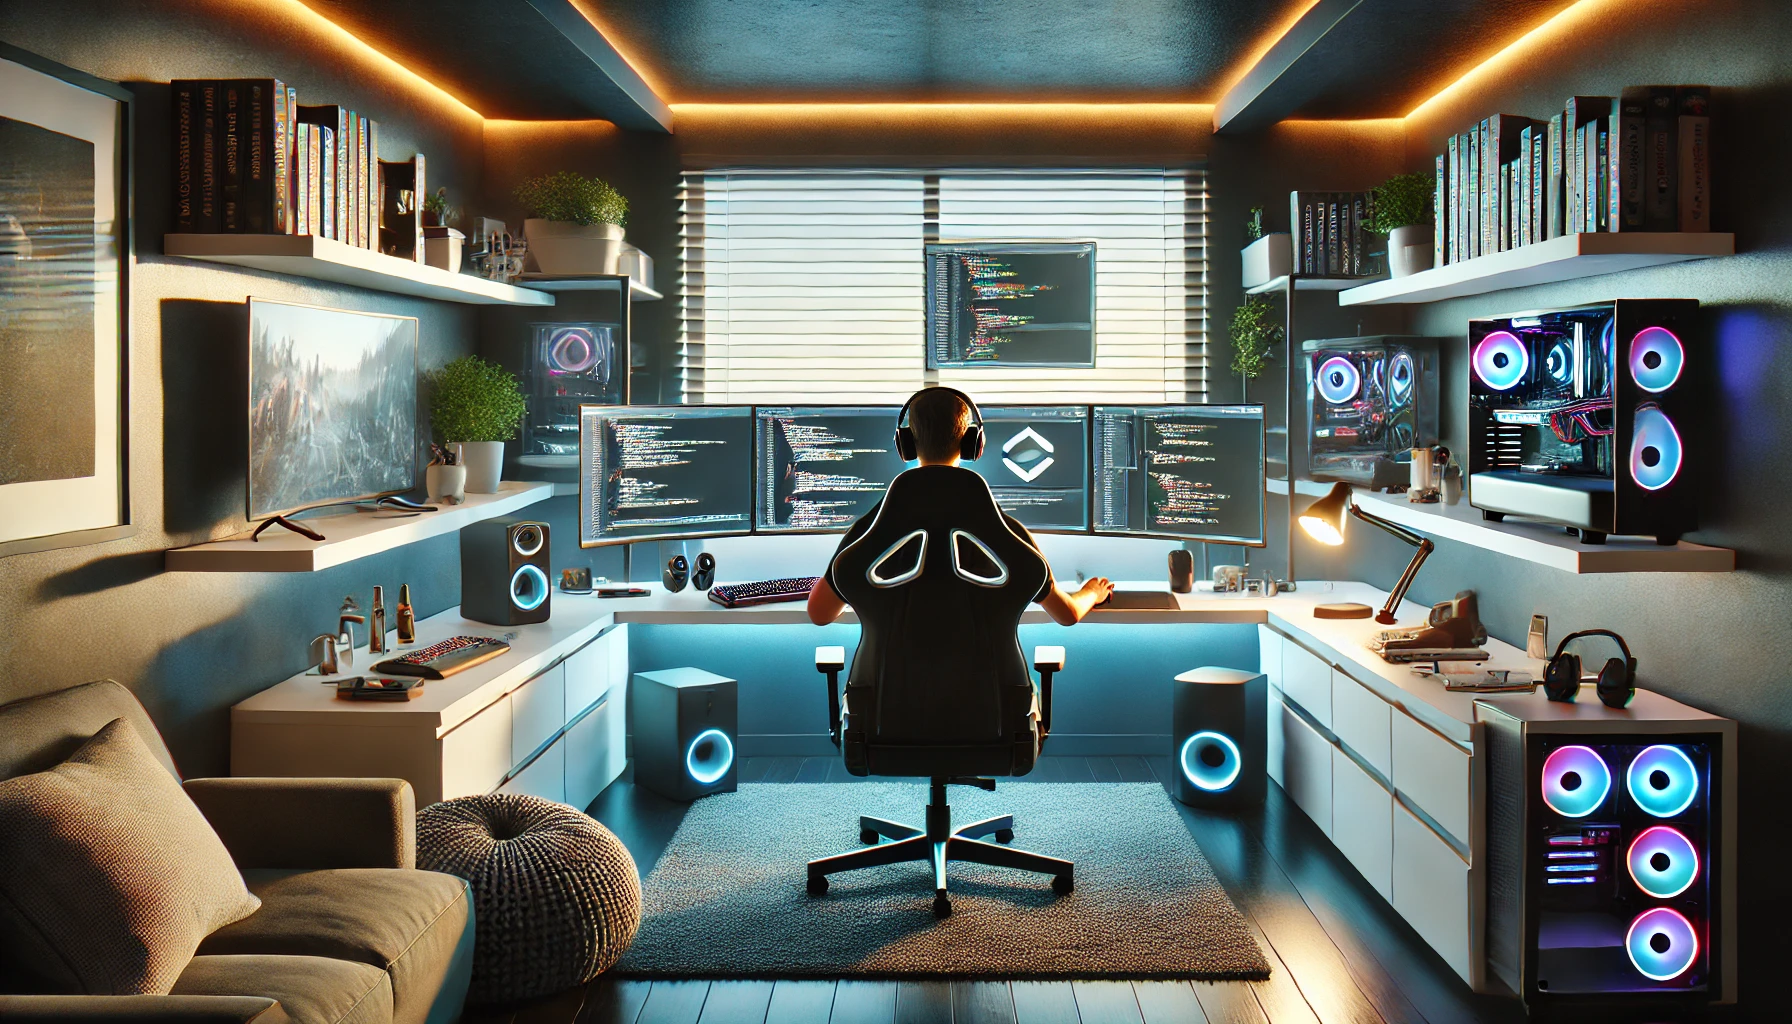
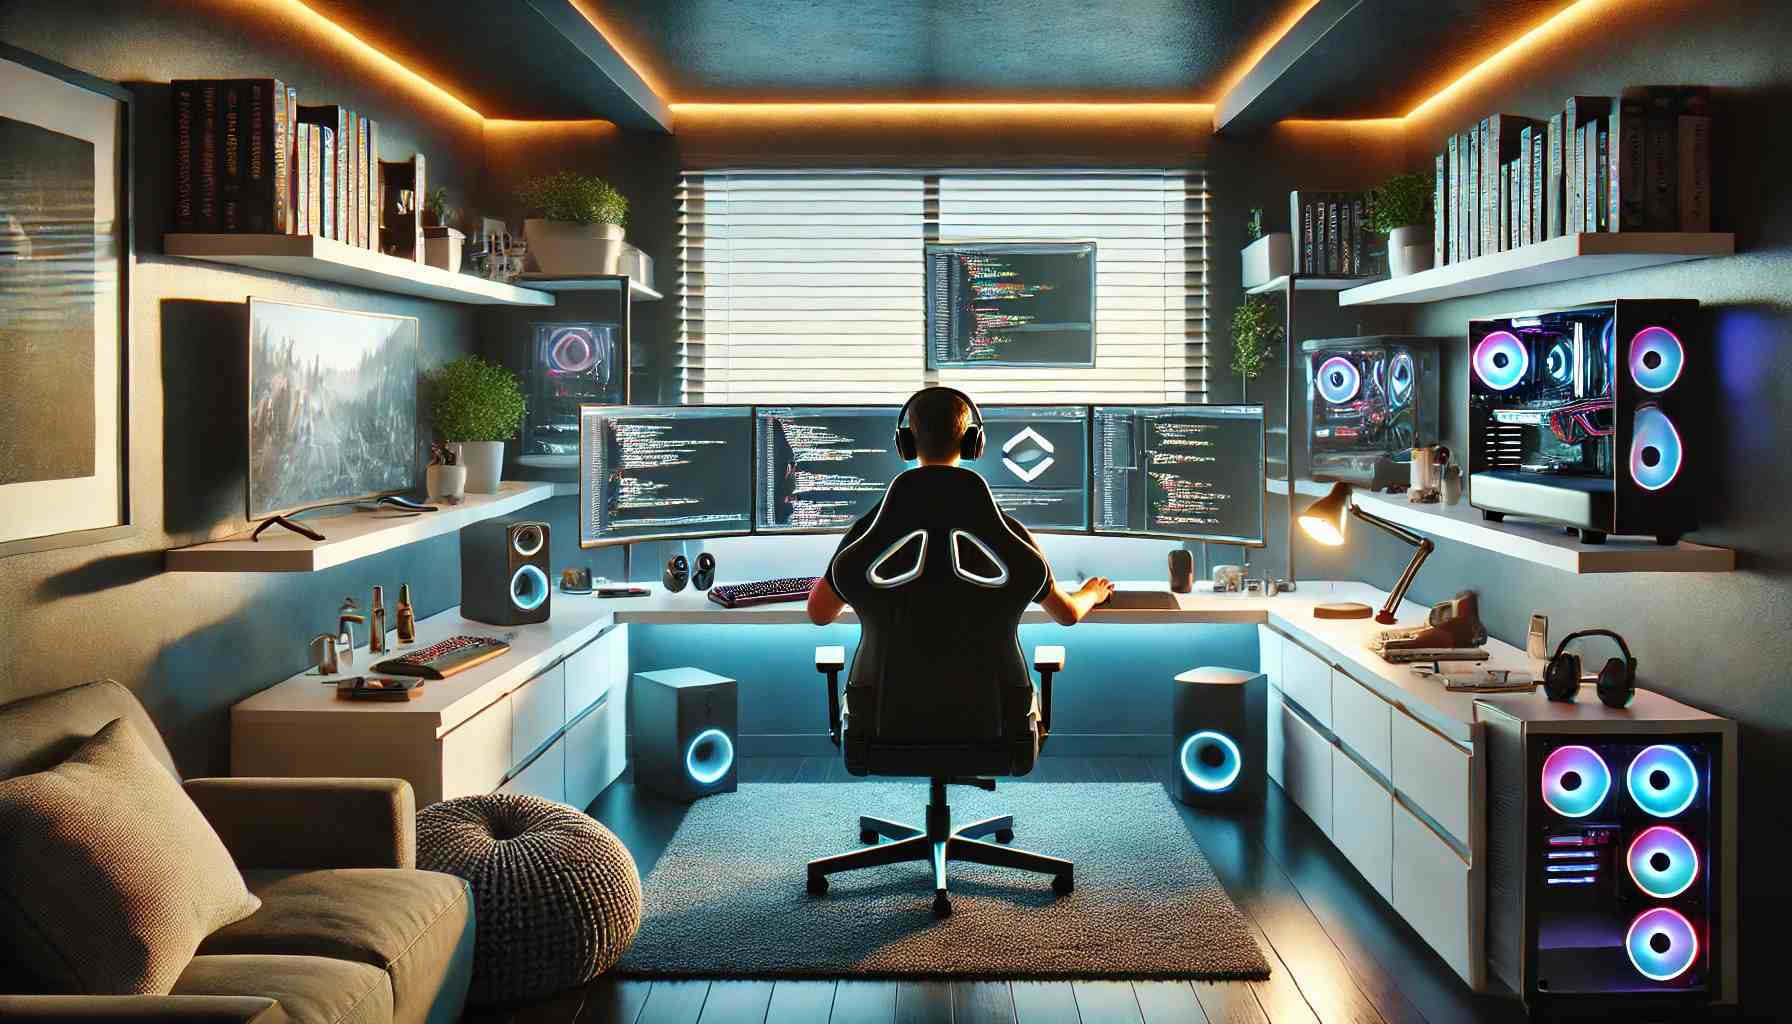
=lootie isues fixed

diff --git a/src/components/Preloader/Preloader.jsx b/src/components/Preloader/Preloader.jsx
@@ -16,9 +16,9 @@ function Preloader({ isLoading }) {
   return (
     <div
       className="preloader-container"
-      style={{ display: isLoading ? "flex" : "flex" }}
+      style={{ display: isLoading ? "flex" : "none" }}
     >
-      <Lottie options={defaultOptions} height={400} width={400} />
+      <Lottie options={defaultOptions} height={400} width={400}    style={{ pointerEvents: 'none' }}     />
     </div>
   );
 }

diff --git a/src/pages/LandingPage/LandingPage.jsx b/src/pages/LandingPage/LandingPage.jsx
@@ -90,7 +90,7 @@ function LandingPage() {
             </Col>
 
             <Col md={5} style={{ paddingBottom: 20 }}>
-              <Lottie options={animationOptions1} className="img-fluid" />
+              <Lottie options={animationOptions1} className="img-fluid"   style={{ pointerEvents: 'none' }}  />
             </Col>
           </Row>
         </Container>
